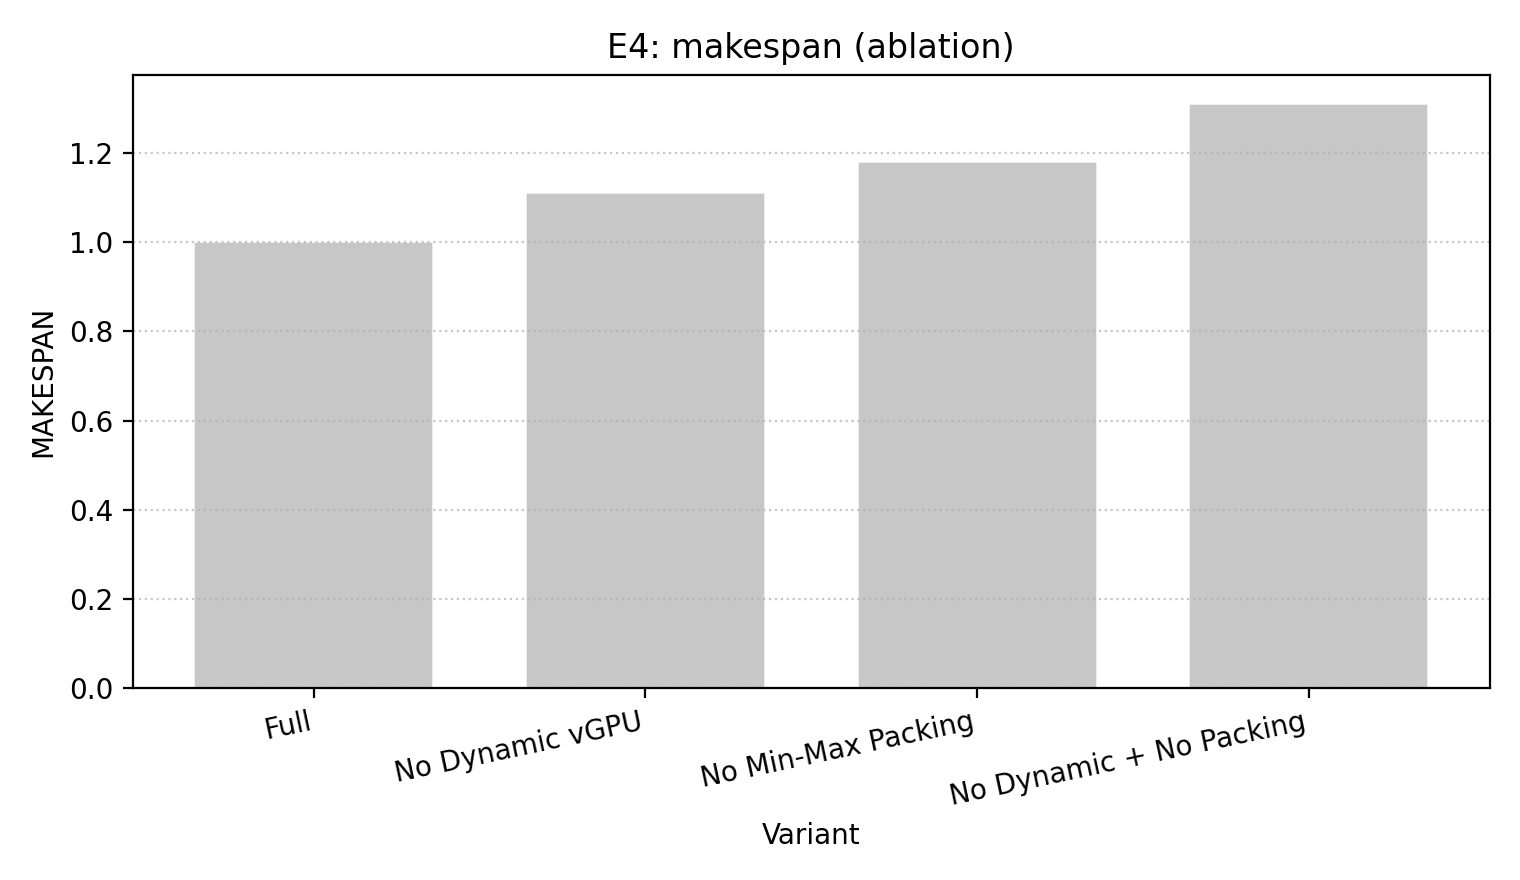
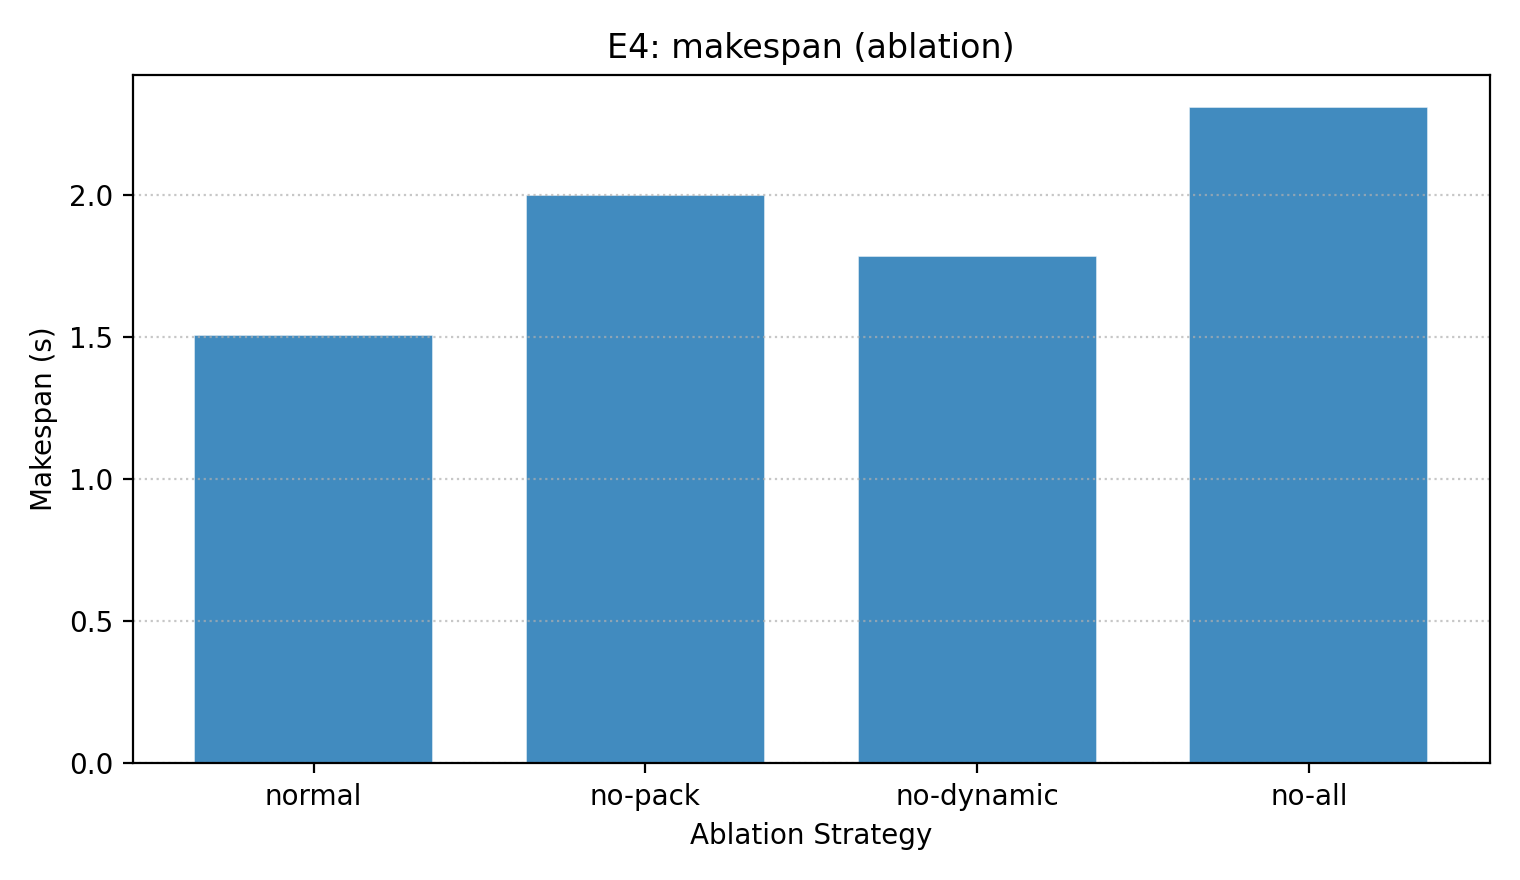
init：画图完成，等修数据

diff --git a/algo/GCCS.py b/algo/GCCS.py
@@ -101,6 +101,33 @@ def phase1_lp(
 
     return state, z_cap
 
+def phase1_random(segments, cluster, seed=2025):
+    """去掉 min-max 打包：完全随机把每个任务指派到一台服务器（不看任何负载）。"""
+    import numpy as np
+    rng = np.random.RandomState(seed)
+    totals = (segments.groupby('task_id')
+              .agg(total_C=('C_TFLOP','sum'), total_G=('G_TFLOP','sum'))
+              .reset_index())
+    state = {s['name']: {'cpu_load':0.0,'gpu_load':0.0,'tasks':[]} for s in cluster}
+    for r in totals.itertuples():
+        srv = cluster[int(rng.randint(0, len(cluster)))]
+        state[srv['name']]['tasks'].append(r.task_id)
+    return state, 0.0
+
+def phase1_global_greedy(segments, cluster):
+    """去掉 min-max 打包：逐任务独立选 argmin_s max(C/S_C[s], G/S_G[s])，忽略当前负载。"""
+    totals = (segments.groupby('task_id')
+              .agg(total_C=('C_TFLOP','sum'), total_G=('G_TFLOP','sum'))
+              .reset_index())
+    state = {s['name']: {'cpu_load':0.0,'gpu_load':0.0,'tasks':[]} for s in cluster}
+    for r in totals.itertuples():
+        best = None; best_cost = float('inf')
+        for srv in cluster:
+            cost = max(r.total_C/srv['S_C'], r.total_G/srv['S_G'])
+            if cost < best_cost:
+                best_cost = cost; best = srv['name']
+        state[best]['tasks'].append(r.task_id)
+    return state, 0.0
 
 # ---------- Phase-2: priority(含 β) + per-server 调度 ----------
 def make_priority_fn(beta_cpu: float = 0.2,
@@ -143,13 +170,24 @@ def run(
     slack: float = 1.08,
     beta_cpu: float = 1.2,
     beta_gpu: float = 0.5,
+    phase1_mode: str = "lp",  # 新增：'lp' | 'random' | 'global'
+    gpu_queue_mode: str = "dynamic",  # 新增：'dynamic' | 'fixed'
     prio_use_time: bool = True
 ) -> Tuple[float, Dict[str, float]]:
     """
     Phase-1：LP 指派；Phase-2：在每台服务器上用 Π 分数排序（含 β），
     CPU 串行、GPU 按 EFT 选 vGPU 队列（schedule_on_server 已实现）。
     """
-    server_state, _ = phase1_lp(segments, cluster, seed=seed, slack=slack)
+    # server_state, _ = phase1_lp(segments, cluster, seed=seed, slack=slack)
+    if phase1_mode == "lp":
+        server_state, z = phase1_lp(segments, cluster, seed=seed, slack=slack)
+    elif phase1_mode == "random":
+        server_state, z = phase1_random(segments, cluster, seed=seed)
+    elif phase1_mode == "global":
+        server_state, z = phase1_global_greedy(segments, cluster)
+    else:
+        raise ValueError(f"Unknown phase1_mode = {phase1_mode}")
+
 
     per = {}
     for s in cluster:
@@ -157,7 +195,8 @@ def run(
         ms, _ = schedule_on_server(
             s['name'], segments, edges, cluster,
             server_state[s['name']]['tasks'],
-            priority_fn=prio
+            priority_fn=prio,
+            gpu_queue_mode = gpu_queue_mode
         )
         per[s['name']] = ms
 

diff --git a/output/draw.py b/output/draw.py
@@ -24,12 +24,13 @@ from pathlib import Path
 # CSV_E1_UNEQUAL = DATA_DIR / "e1_unequal.csv"
 # CSV_E2 = DATA_DIR / "e2_heterogeneity.csv"
 # CSV_E3 = DATA_DIR / "e3_longtail.csv"
+# CSV_E4 = DATA_DIR / "e4_ablation.csv"
 DATA_DIR = Path("data_gen")
 CSV_E1_EQUAL = "./data/e1_equal.csv"
 CSV_E1_UNEQUAL = "./data/e1_unequal.csv"
 CSV_E2 = "./data/e2_heterogeneity.csv"
 CSV_E3 = "./data/e3_longtail.csv"
-CSV_E4 = DATA_DIR / "e4_ablation.csv"
+CSV_E4 =  "./data/e4_ablation.csv"
 
 # 方法重命名
 METHOD_ORDER = ["GCCS", "HEFT", "Hydra", "MRSA"]
@@ -51,7 +52,16 @@ LINE_ALPHA = 0.90
 BAR_EDGE_COLOR = "white"
 BAR_EDGE_WIDTH = 0.6
 GROUP_TOTAL_WIDTH = 0.78   # 每组总体宽度（<1 会让组之间也留些空隙）
+
+YLABEL_UNITS = {
+    "makespan": "s",   # 你也可以在这里给其它指标加单位，比如 "p99": "s"
+}
 # ==============================================
+def _ylabel(metric: str) -> str:
+    """把字段名变成人话 + 单位"""
+    pretty = metric.replace("_", " ").title()      # "makespan" -> "Makespan"
+    unit = YLABEL_UNITS.get(metric.lower())
+    return f"{pretty} ({unit})" if unit else pretty
 
 def _bar_grid(ax):
     ax.grid(True, axis="y", linestyle=":", linewidth=0.8, alpha=0.7)
@@ -144,7 +154,7 @@ def plot_e1_for_rho(df, rho, tag):
 
     ax.set_title(f"E1-{tag}: makespan vs kappa (rho={rho})")
     ax.set_xlabel("kappa (vGPU count per server)")
-    ax.set_ylabel("Makespan")
+    ax.set_ylabel(_ylabel("makespan"))
 
     # 图例带框
     leg = ax.legend(frameon=True)
@@ -177,7 +187,7 @@ def plot_e2(title: str, filename: str, df: pd.DataFrame):
 
     ax.set_title(title or "E2: makespan vs heterogeneity H")
     ax.set_xlabel("H (CV of vGPU capacity split)")
-    ax.set_ylabel("Makespan")
+    ax.set_ylabel(_ylabel("makespan"))
 
     # 网格线（在柱/线下方）
     ax.set_axisbelow(True)
@@ -215,7 +225,7 @@ def plot_e3(metric, title_suffix, filename, df):
     ax.set_xticklabels(datasets)
     ax.set_title(f"E3: {title_suffix}")
     ax.set_xlabel("Dataset")
-    ax.set_ylabel(metric.upper())
+    ax.set_ylabel(_ylabel("makespan"))
     ax.legend(frameon=False)
     _bar_grid(ax)
     out = OUT_DIR / filename
@@ -229,17 +239,17 @@ def plot_e4(metric, title_suffix, filename, df):
     x = np.arange(len(x_labels))
     ax.bar(
         x, list(df[metric].values),
-        color="#BDBDBD",
+        # color="#BDBDBD",
         edgecolor=BAR_EDGE_COLOR,
         linewidth=BAR_EDGE_WIDTH,
         alpha=(BAR_ALPHA if USE_ALPHA else 1.0),
         width=0.72,
     )
     ax.set_xticks(x)
-    ax.set_xticklabels(x_labels, rotation=12, ha="right")
+    ax.set_xticklabels(x_labels)
     ax.set_title(f"E4: {title_suffix}")
-    ax.set_xlabel("Variant")
-    ax.set_ylabel(metric.upper())
+    ax.set_xlabel("Ablation Strategy")
+    ax.set_ylabel(_ylabel("makespan"))
     _bar_grid(ax)
     out = OUT_DIR / filename
     fig.tight_layout()

diff --git a/common.py b/common.py
@@ -103,7 +103,7 @@ def compute_crit_for_task(task_id: str, segments: pd.DataFrame, edges: pd.DataFr
 # ---------- per-server scheduler (CPU-serial + GPU-EFT) ----------
 def schedule_on_server(server_name: str, segments: pd.DataFrame, edges: pd.DataFrame,
                        cluster: List[Dict], assigned_tasks: List[str],
-                       priority_fn: Callable):
+                       priority_fn: Callable, gpu_queue_mode: str = "dynamic"):
     srv = next(s for s in cluster if s['name']==server_name)
     S_C = srv['S_C']; S_G_k = srv['S_G_k']; S_G_sum = sum(S_G_k)
     T_cpu = 0.0; T_k = [0.0 for _ in S_G_k]; finish = {}
@@ -119,6 +119,7 @@ def schedule_on_server(server_name: str, segments: pd.DataFrame, edges: pd.DataF
             if cnt==0:
                 typ = segments[(segments['task_id']==tid)&(segments['seg_id']==v)].iloc[0]['type']
                 ready.append((tid,v,typ))
+    fixed_lane_for_task = {}
     while ready:
         ready.sort(key=lambda x: priority_fn(x[0], x[1], {'server':srv,'task_struct':task_struct,'segments':segments}), reverse=True)
         tid,v,typ = ready.pop(0)
@@ -128,11 +129,23 @@ def schedule_on_server(server_name: str, segments: pd.DataFrame, edges: pd.DataF
         else:
             preds = task_struct[tid]['pred'][v]
             rls = max([0.0]+[finish[(tid,u)] for u in preds]) if preds else 0.0
-            best_k, best_end = None, float('inf')
-            for k,cap in enumerate(S_G_k):
-                st = max(T_k[k], rls); ft = st + row['G_TFLOP']/cap
-                if ft < best_end: best_end, best_k = ft, k
-            T_k[best_k] = best_end; end = best_end
+            if gpu_queue_mode == "fixed" and tid in fixed_lane_for_task:
+                k = fixed_lane_for_task[tid]
+                start_k = max(T_k[k], rls)
+                end = start_k + row['G_TFLOP'] / S_G_k[k]
+                T_k[k] = end
+            else:
+                # 动态（或第一次）：按 EFT 选
+                best_k, best_end = None, float('inf')
+                for k, cap in enumerate(S_G_k):
+                    st = max(T_k[k], rls);
+                    ft = st + row['G_TFLOP'] / cap
+                    if ft < best_end: best_end, best_k = ft, k
+                # 更新 & 如需固定，记下来
+                T_k[best_k] = best_end;
+                end = best_end
+                if gpu_queue_mode == "fixed" and tid not in fixed_lane_for_task:
+                    fixed_lane_for_task[tid] = best_k
         finish[(tid,v)] = end
         for u in task_struct[tid]['succ'][v]:
             task_struct[tid]['indeg'][u]-=1

diff --git a/run_ablation.py b/run_ablation.py
@@ -1,0 +1,59 @@
+# run_ablation.py
+from __future__ import annotations
+from pathlib import Path
+import pandas as pd
+
+import common
+from algo import GCCS as algo_gccs
+from experiments import _resolve_rho, _format_rho_as_R
+
+# 固定一次的参数（与其它 run_* 脚本对齐）
+RHO   = "1R"
+KAPPA = 4
+SEED  = 2025
+
+SEG_PATH = "./input/segments_base.csv"
+EDG_PATH = "./input/edges.csv"
+
+OUT_DIR = Path("./output/data")
+OUT_CSV = OUT_DIR / "e4_ablation.csv"
+
+# 四个变体（与题述 a/b/c/d 一一对应）
+VARIANTS = [
+    ("normal",      {"phase1_mode": "lp",      "gpu_queue_mode": "dynamic"}),  # 正常
+    ("no-pack",     {"phase1_mode": "random",  "gpu_queue_mode": "dynamic"}),  # 去掉 min-max 打包
+    ("no-dynamic",  {"phase1_mode": "lp",      "gpu_queue_mode": "fixed"}),    # 去掉动态 vGPU
+    ("no-all",        {"phase1_mode": "random",  "gpu_queue_mode": "fixed"}),    # 两个都去掉
+    # 想用“全局独立选择”替代随机，把 "random" 改成 "global" 即可
+]
+
+def main():
+    OUT_DIR.mkdir(parents=True, exist_ok=True)
+    seg, edg = common.load_segments_edges(SEG_PATH, EDG_PATH)
+
+    rows = []
+
+    rho_val = _resolve_rho("auto", seg)
+    rho_str = _format_rho_as_R(rho_val, seg)
+    cluster = common.make_default_cluster(
+        num_servers=6, rho=rho_val, kappa=int(KAPPA),
+        segments=seg, seed=SEED
+    )
+
+    for name, cfg in VARIANTS:
+        # 只改“第一阶段打包策略 + vGPU 分配策略”，其余流程保持不动
+        ms, _ = algo_gccs.run(
+            seg, edg,
+            cluster=cluster,            # 让内部按 RHO/KAPPA 自构集群（如果你 run 里本就这样）
+            seed=SEED,
+            phase1_mode=cfg["phase1_mode"],
+            gpu_queue_mode=cfg["gpu_queue_mode"],
+        )
+        print(f"[E4] {name}: makespan={ms:.3f}")
+        rows.append({"variant": name, "makespan": float(ms)})
+
+    pd.DataFrame(rows, columns=["variant", "makespan"]).to_csv(OUT_CSV, index=False)
+    print(f"Saved -> {OUT_CSV.resolve()}")
+
+if __name__ == "__main__":
+    main()
